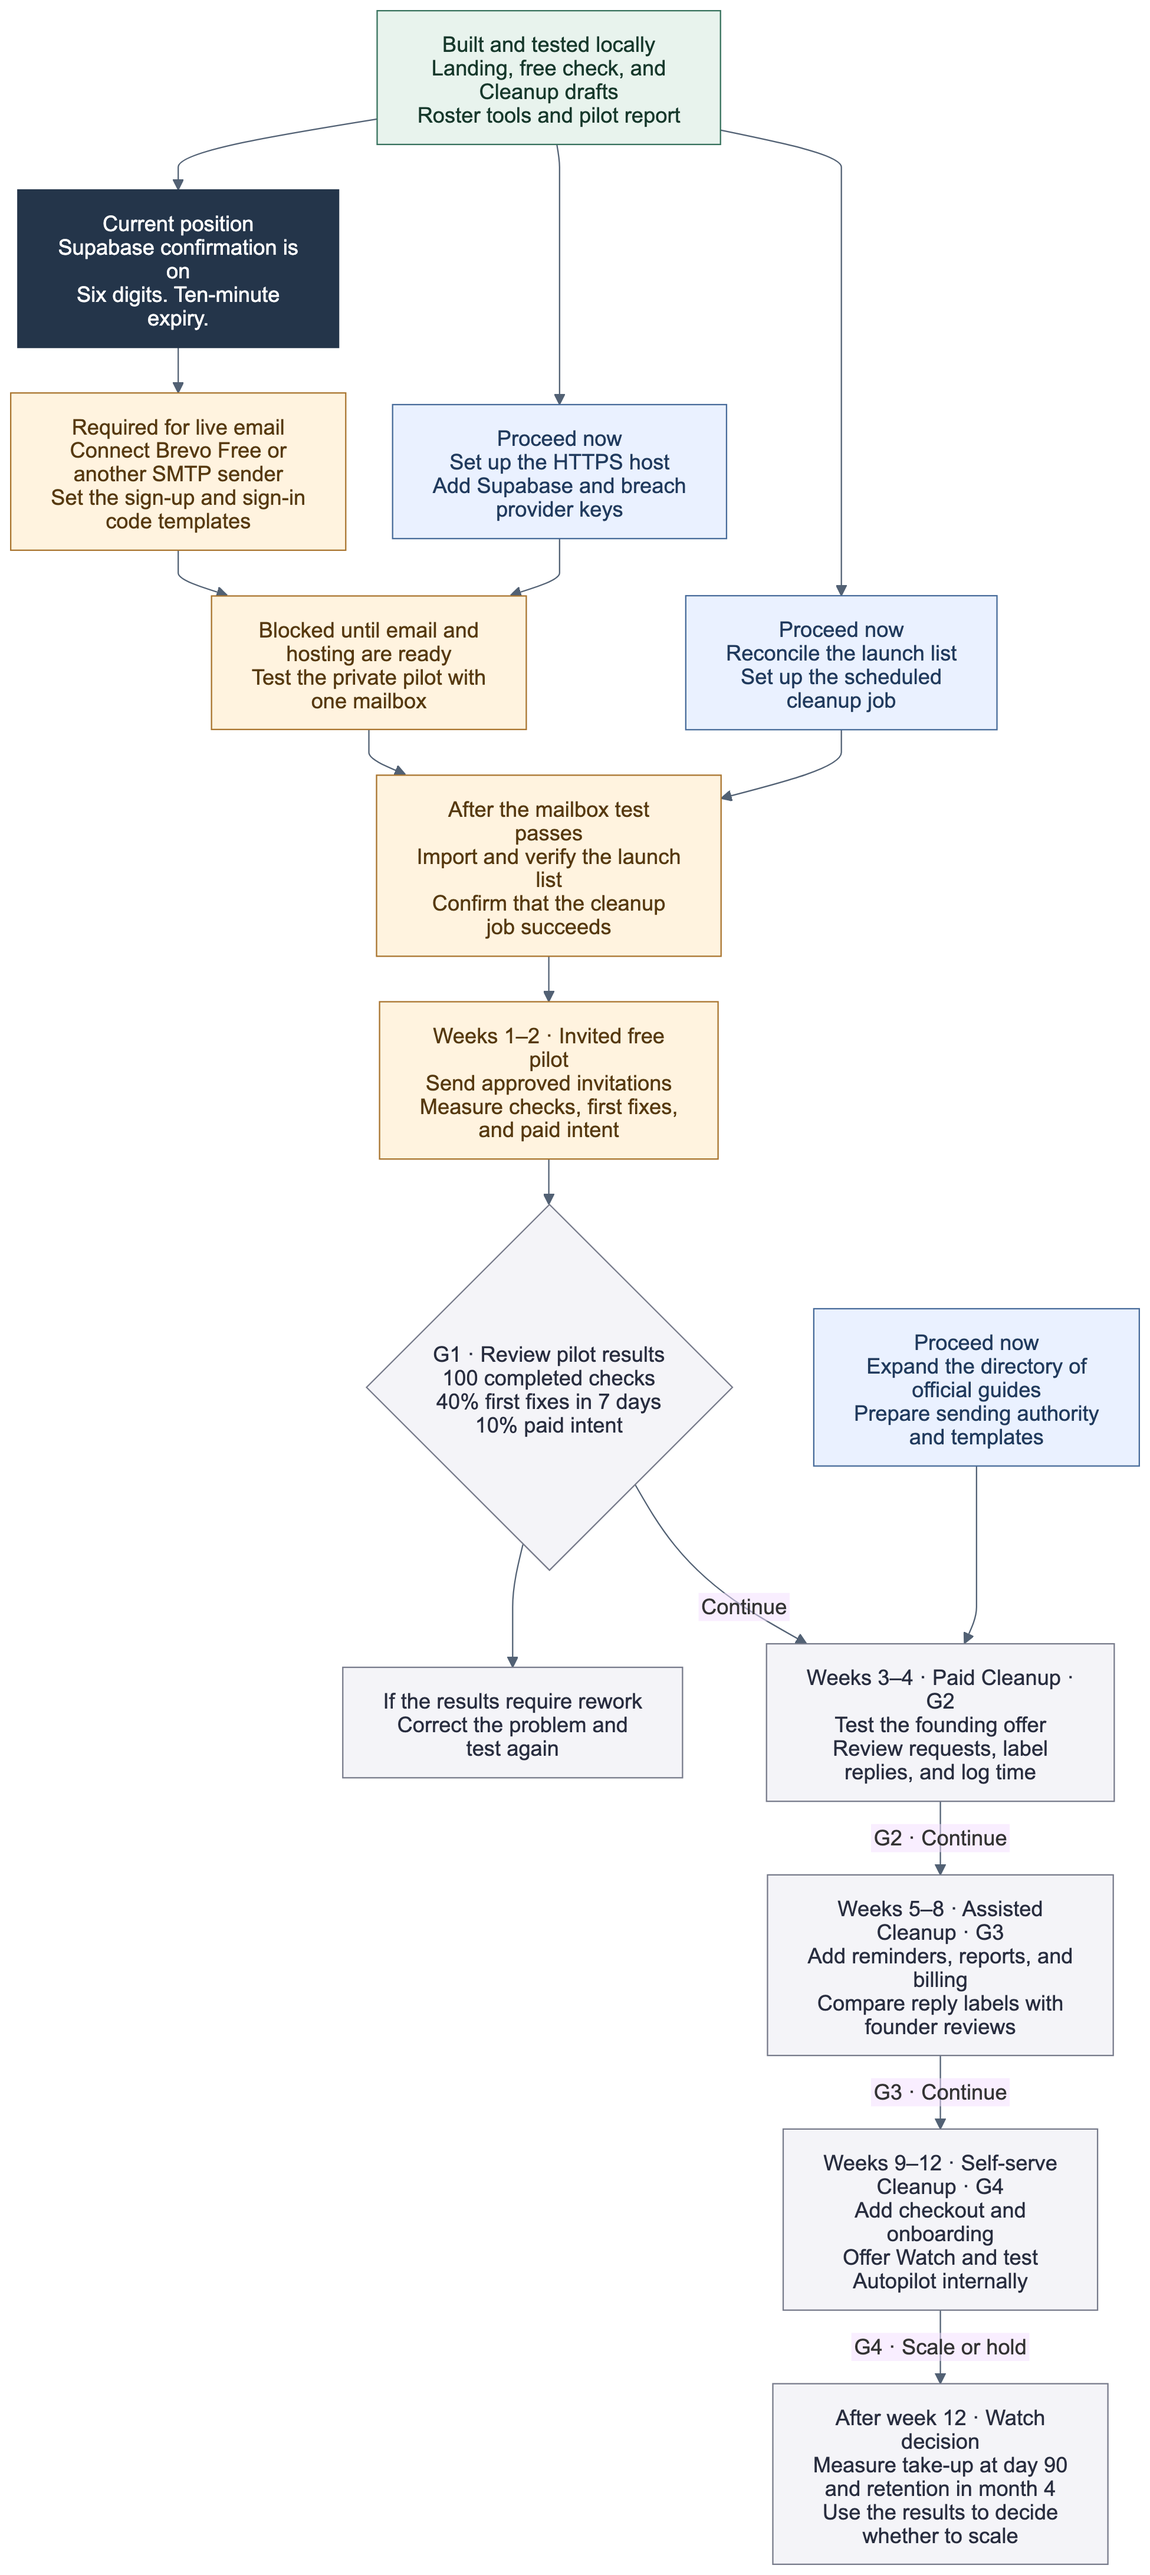
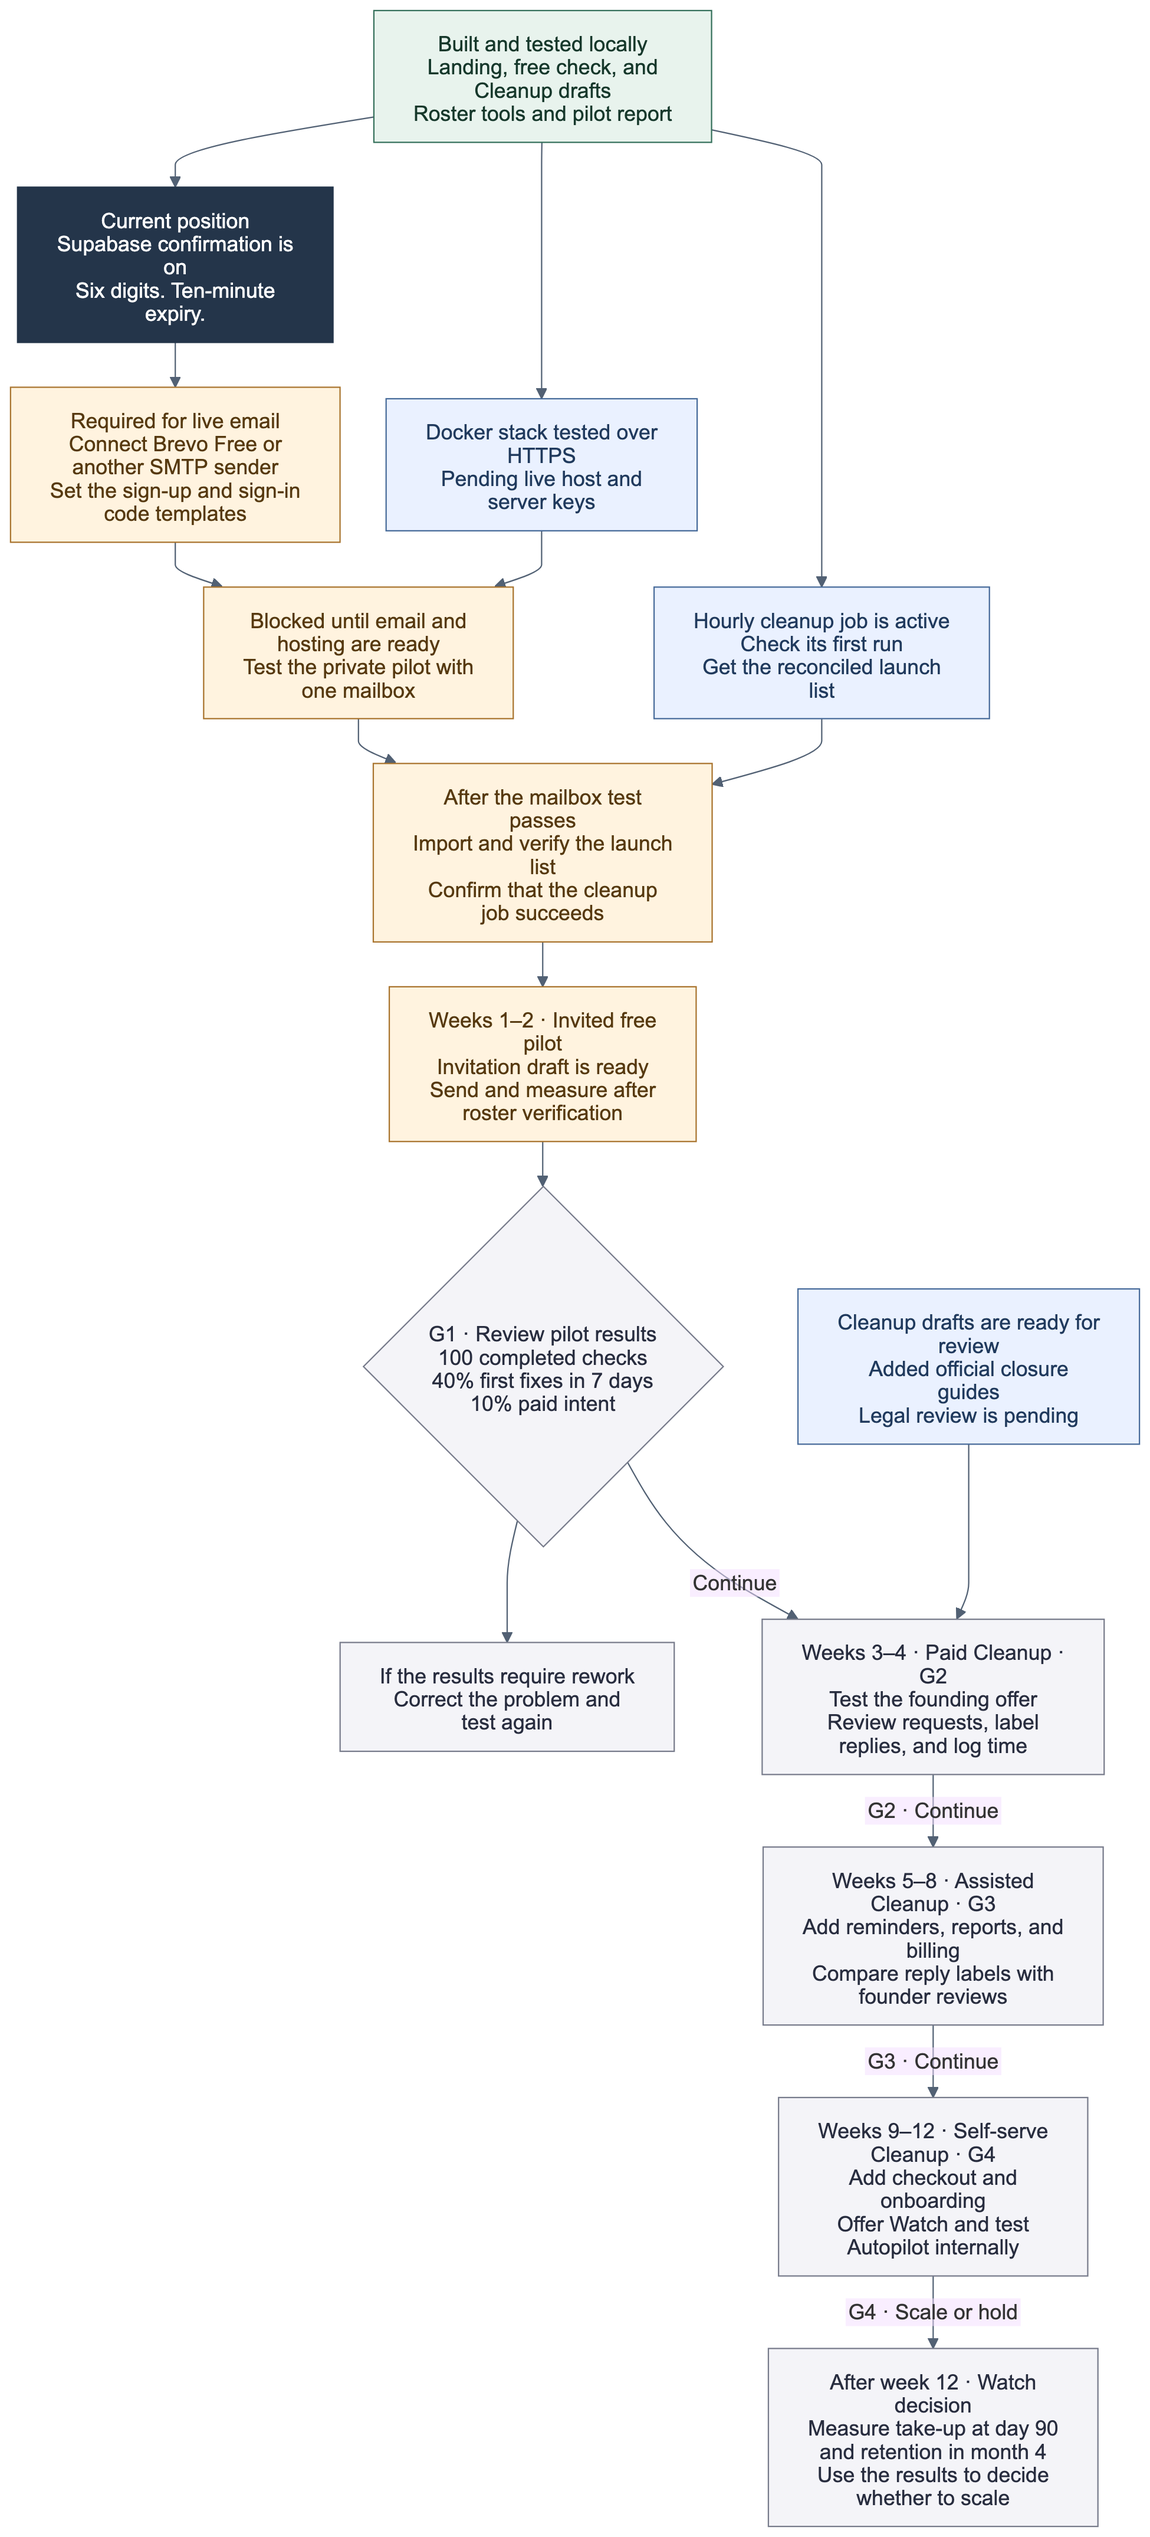
Prepare HTTPS pilot deployment and Cleanup review drafts

diff --git a/MVP/handover.md b/MVP/handover.md
@@ -8,8 +8,10 @@ Updated 18 November 2026. Continue on the existing `MVP` branch. See the [PRD](.
 - The Supabase project `koverr_privacy_agent_alpha` (`xehicmrxtxbabgxbabll`) is in West EU (Ireland). The signed-in Chrome dashboard shows the 11 Koverr tables. The available Management API token returned HTTP 403.
 - Supabase Auth has email confirmation on. The email code length is six digits and the expiry is 600 seconds. The dashboard requires custom SMTP to change the default sign-in link to a code.
 - **Follow-up task.** Configure Brevo Free in Supabase. Set `{{ .Token }}` in the Confirm sign up and Magic link or OTP templates. Verify delivery and sign-in with one test mailbox before you invite pilot users.
-- The live test also needs an HTTPS Node 24 host, a replacement Supabase server key, and a production Have I Been Pwned key. Put these keys in the host's secret store.
+- The [dedicated Docker stack](deploy/compose.yaml) passed a local HTTPS test. The live test needs an HTTPS host, a replacement Supabase server key, and a production Have I Been Pwned key. Put these keys in the host's secret store.
+- The hourly job `koverr-expire-otp-limits` is active in Supabase. Its first run is scheduled for 15:00 GMT on 18 November 2026. Check the run status before you import the real roster.
 - The live mailbox test, real roster import, and invited pilot are pending. Use one mailbox that you control for the live test. Get the reconciled SQLite backup from the landing-site operator after that test passes.
+- The [pilot preparation file](pilot-preparation.md) contains the free pilot invitation, a draft authority, and four paid Cleanup request drafts. Send the invitation after the live test and roster verification. Get legal review of the paid drafts before use.
 
 ## MVP development
 
@@ -32,10 +34,10 @@ The diagram shows the plan from the landing page to the Watch retention decision
 
 | Open item | Work that needs it | Work that can proceed |
 | --- | --- | --- |
-| Brevo Free account, or another SMTP sender | Connect the sender and set the Supabase code templates. Test code delivery and sign-in with one real mailbox. | Set up the HTTPS host. Test the container and routes with test data. Check the sample workflows. |
-| HTTPS host, Supabase server keys, and production Have I Been Pwned key | Run the full live test from sign-in to breach lookup, export, and deletion. | Set up and verify the email sender. Reconcile the launch list. Set up the scheduled cleanup job. |
-| Successful live mailbox test | Import and verify the real launch list. Send invitations after verification. | Prepare the invitation text and choose the pilot group. Keep the current opt-out list up to date. |
-| Free pilot results and G1 decision | Decide whether to proceed to the paid Cleanup beta. | Expand the directory of official guides. Prepare sending authority and request templates for legal review. |
+| Brevo Free account, or another SMTP sender | Connect the sender and set the Supabase code templates. Test code delivery and sign-in with one real mailbox. | Set up the HTTPS host with the tested Docker stack. Check the sample workflows. |
+| HTTPS host, Supabase server keys, and production Have I Been Pwned key | Run the full live test from sign-in to breach lookup, export, and deletion. | Verify the sender domain. Reconcile the launch list when the operator gives access. Check the first run of the cleanup job. |
+| Successful live mailbox test | Import and verify the real launch list. Send invitations after verification. | Review the draft invitation and choose the pilot group. Keep the opt-out list up to date. |
+| Free pilot results and G1 decision | Decide whether to proceed to the paid Cleanup beta. | Review the draft authority and request templates. Continue to add official closure guides. |
 
 Brevo is the selected SMTP follow-up. Another supported SMTP sender can fill the same role. Pilot invitations can come from the founder’s mailbox. Supabase sends the sign-in codes through the SMTP sender.
 
@@ -98,14 +100,14 @@ npm run check
 npm run build
 ```
 
-All 27 automated tests passed. Astro diagnostics and the server build passed. The Docker container passed its health check and showed the invite-only form behind simulated HTTPS proxy headers. The roster export and import dry run passed with test data. Embedded Postgres tests passed for roster access, email code counter expiry, and the cohort report. The [live checks](deploy/live-pilot.md) need the HTTPS host and provider settings.
+All 27 automated tests passed. Astro diagnostics and the server build passed. The Docker stack passed the local HTTPS test. The proxy served the invite-only form and rejected the landing signup endpoint. The roster export and import dry run passed with test data. Embedded Postgres tests passed for roster access, email code counter expiry, and the cohort report. The [live checks](deploy/live-pilot.md) need the HTTPS host and provider settings.
 
 The built route passed a headless Chromium walkthrough using test providers. The test covered a wrong code, verification, scan, completion, undo, export, and deletion. The database tests also covered scan retries, account isolation, pricing choices, Cleanup access, draft withdrawal, and cascading deletion. Have I Been Pwned returned a result for its documented test account. In a mobile browser, the password checker sent only the five-character prefix to the password service.
 
 ## Next three milestones
 
 1. **Deploy and test the private pilot.** Connect Brevo Free to Supabase. Set both email code templates. Set up the HTTPS host and add the server keys. Use one test mailbox to check code delivery, sign-in, breach lookup, export, and account deletion.
-2. **Import and verify the roster.** After the mailbox test passes, export the reconciled roster from the landing host. Run the import and verify the records. Schedule the email code counter cleanup. Confirm that the job succeeds.
+2. **Import and verify the roster.** After the mailbox test passes, export the reconciled roster from the landing host. Confirm that the scheduled cleanup job succeeds. Run the import and verify the records.
 3. **Run the invited pilot.** Send the pilot invitations. Supabase sends the sign-in codes through Brevo. Measure completed checks, first fixes in seven days, and paid intent. Compare the results with G1 before you expand signup.
 
 Use the [build plan](../docs/07-validation-and-build-plan.md) for the paid Cleanup work after G1. Expand the directory of official guides. Get legal review of sending authority and templates before you add relay sending.

diff --git a/MVP/deploy/live-pilot.md b/MVP/deploy/live-pilot.md
@@ -15,6 +15,21 @@ docker build -f MVP/deploy/Dockerfile \
 
 Run the container with the live environment injected by the host, a persistent writable volume mounted at `/storage` for the standalone landing site's SQLite data, and the HTTPS proxy forwarding the configured public host and scheme. Alternatively, run `npm ci`, `npm run build`, and `npm start` on a Node 24 host. The app listens on the host-provided `PORT`. Restrict direct access to the server behind the proxy.
 
+### Use the dedicated pilot stack on a Docker host
+
+1. Point the pilot domain to the host. Allow ports 80 and 443 to reach Caddy so it can obtain a certificate. [Caddy HTTPS instructions](https://caddyserver.com/docs/automatic-https)
+2. Set the values from [the environment example](../.env.example) in the host's secret store or in a private environment file. Set `KOVERR_APP_ORIGIN` to the exact public HTTPS origin. Use the new Supabase server secret.
+3. Run these commands from the repository root on the host. Use the path to the private environment file.
+
+```sh
+docker compose --env-file /private/koverr-pilot.env -f MVP/deploy/compose.yaml config --quiet
+docker compose --env-file /private/koverr-pilot.env -f MVP/deploy/compose.yaml up -d --build --wait
+```
+
+If the host supplies the settings as environment variables, omit `--env-file` and its path.
+
+The [Compose stack](compose.yaml) runs the app in invite-only mode. Only Caddy publishes ports. It redirects the root URL to `/app/` and serves the pilot routes and assets. The marketing pages and signup endpoint are outside the pilot routes. Caddy saves its certificate state in a Docker volume.
+
 The Koverr pilot project is in West EU (Ireland). Its eight migrations through `20261117104500` were applied in the Supabase SQL editor on 17 November 2026.
 
 Email confirmation is on. The email code length is six digits and the expiry is 600 seconds. The dashboard uses the default sign-in link template while custom SMTP is off. The Koverr form needs a numeric code. Set up Brevo Free, then put `{{ .Token }}` in the Confirm sign up and Magic link or OTP templates. [Brevo SMTP instructions](https://help.brevo.com/hc/en-us/articles/7924908994450-Send-transactional-emails-using-Brevo-SMTP)
@@ -54,7 +69,9 @@ The dry run validates the full input before any writes. The import preserves the
 
 Run the read-only verification before marking any invitations. Remove the controlled test row first. Keep the destination roster unchanged during verification. Check that `matched` equals the dry-run row count and that `different`, `extra`, `missing` and `invited` are zero. The command returns a nonzero exit status for any of these differences. Reconcile each difference privately and repeat the check with the current backup.
 
-Enable Supabase Cron on the pilot project. Run this command in the SQL Editor to schedule the job every hour. Use the same job name if you must update the schedule.
+The pilot project has an active hourly job named `koverr-expire-otp-limits`. Supabase scheduled its first run for 15:00 GMT on 18 November 2026. Check the run before you import the real launch list.
+
+For a new project, enable Supabase Cron and run this command in the SQL Editor. Use the same job name if you must update the schedule.
 
 ```sql
 select cron.schedule(
@@ -80,7 +97,7 @@ limit 1;
 ## Run the invited free pilot
 
 1. Confirm that the live deployment is in invite-only mode, the controlled mailbox checks passed, and the roster import completed. Importing leaves every new row uninvited.
-2. Once launch emails are explicitly authorized, set `invited_at` for the selected consented recipients when their batch is ready and send the approved invitation from your normal launch channel. Use the HTTPS `/app/` link with no address or private data in the URL. To stop access for an invitation, clear its `invited_at`. Handle launch-list removal separately under the signup privacy notice. If a removed user needs access to an existing export or deletion request, route them through the privacy contact.
+2. Once launch emails are explicitly authorized, set `invited_at` for the selected consented recipients when their batch is ready. Send the approved [pilot invitation](../pilot-preparation.md) from your normal launch channel. Use the HTTPS `/app/` link with no address or private data in the URL. To stop access for an invitation, clear its `invited_at`. Handle launch-list removal separately under the signup privacy notice. If a removed user needs access to an existing export or deletion request, route them through the privacy contact.
 3. Set the UTC invite window in [the cohort report](../supabase/reports/pilot-cohort.sql). The report excludes the `controlled-test` marker. Review completed checks, seven-day activation among accounts that have had seven full days, and paid intent among users shown the picker. Compare landing variants using the visit counts from the marketing host.
 4. Read the three G1 flags on the total row. The targets are 100 completed checks, 40% seven-day activation and 10% paid intent. A null rate flag means the report has no eligible users for that rate. Use [the build plan](../../docs/07-validation-and-build-plan.md) to decide when to expand signup. To expand access, set `KOVERR_PILOT_MODE=open` and deploy again.
 

diff --git a/MVP/pilot-preparation.md b/MVP/pilot-preparation.md
@@ -1,0 +1,54 @@
+# Koverr pilot preparation
+
+## Draft invitation for the free pilot
+
+Use this draft after the live mailbox test and roster verification pass. Replace `https://pilot.example.com/app/` with the live address. Send it to each approved participant from the founder’s mailbox.
+
+**Subject**
+
+Your invitation to try Koverr
+
+**Message**
+
+Hi [first name],
+
+You joined the Koverr launch list. I’m inviting a small group to try the free breach check.
+
+Open https://pilot.example.com/app/ and enter the email address you used to join the list. Koverr will send you a six-digit code. Enter the code on the Koverr page. The check will show known breaches for that address and steps you can take.
+
+If you get stuck, reply to this email and tell me which step caused the problem. Keep sign-in codes and passwords private.
+
+Thanks,
+
+Adrian
+
+## Draft authority for the paid Cleanup review
+
+Review this text with the solicitor before you use it to collect authority. Use the [build plan](../docs/07-validation-and-build-plan.md) for the other paid launch checks.
+
+> I authorize [Koverr legal entity] to send the requests I approve to the organizations I select. This authority applies to the request, organization, and account shown on each approval screen. Koverr can receive replies about those requests and tell me what action I must take. I can withdraw my authority in my account or by contacting [contact address]. After I withdraw it, Koverr must stop pending sends. I understand that an organization may ask me to confirm my identity.
+
+For each approval, record the customer, organization, request, time, and authority version. Ask the solicitor to confirm the authority end date, the evidence to share with an organization, and what to do with replies to requests that Koverr already sent.
+
+## Draft requests for the paid Cleanup review
+
+Use a verified support address or form. Use the customer’s approved details only. Ask the solicitor to confirm the legal basis, deadline, and required evidence for each request type before use. These drafts are review material.
+
+**Opening for a request from Koverr**
+
+> Hello [organization] team,
+>
+> I am writing for [customer name]. The customer approved this request. [Approved authority reference]. Please use [minimum approved account identifier] to find the record.
+
+| Request | Draft text |
+| --- | --- |
+| Close an account | Please close the account. Tell us if the customer must complete any steps in the account settings. Confirm when you close the account. |
+| Erase personal data | Please erase the personal data in [approved scope]. Tell us which data you erase and which data you keep. Explain why you keep that data. |
+| Access personal data | Please send a copy of the personal data in [approved scope]. Tell us where you obtained the data and who received it. |
+| Stop direct marketing | Please stop using [approved identifier] for direct marketing. Confirm when you complete this request. |
+
+**Reply instructions**
+
+> Please reply through [approved reply channel]. If you need the customer to confirm their identity, tell us which information you need and how the customer can send it securely.
+
+If the official guide gives the customer a self-service route, show that route first. During the paid beta, the founder reviews each request before sending it and records the result and time spent.
